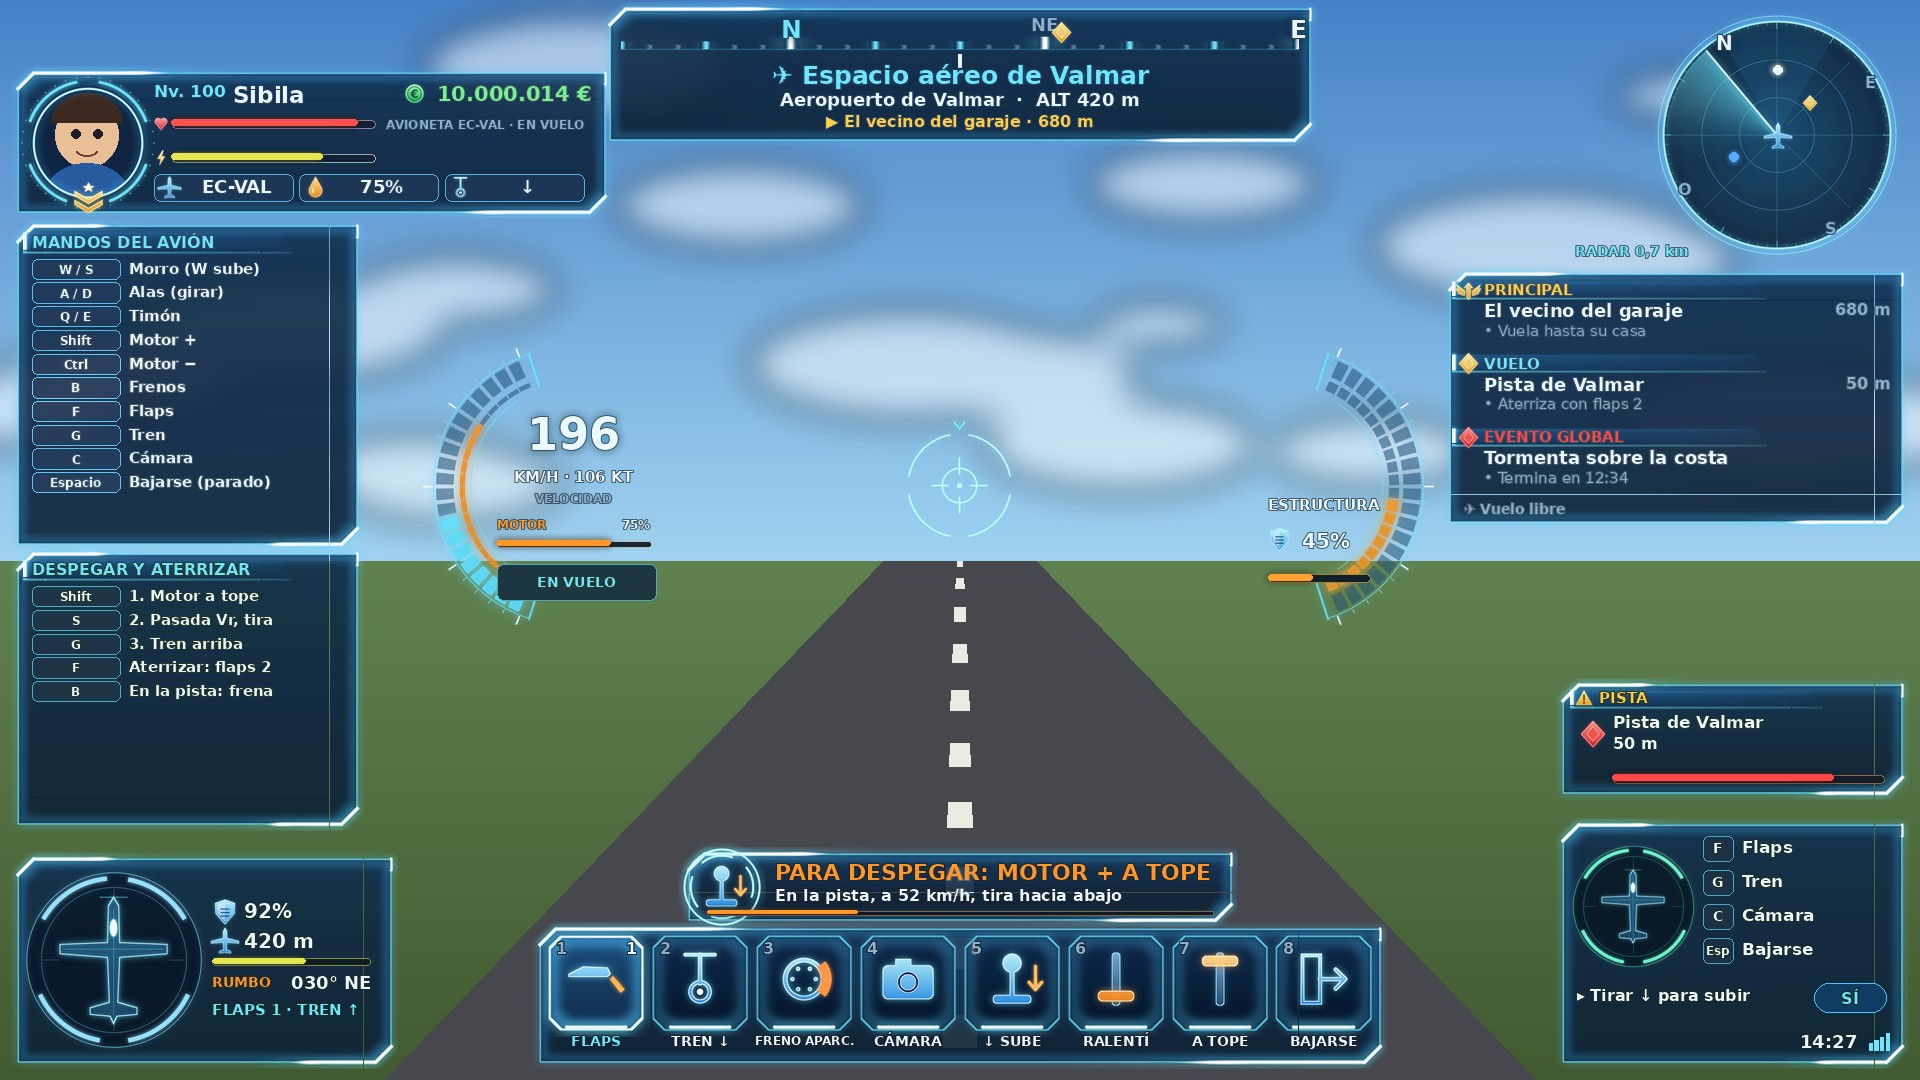
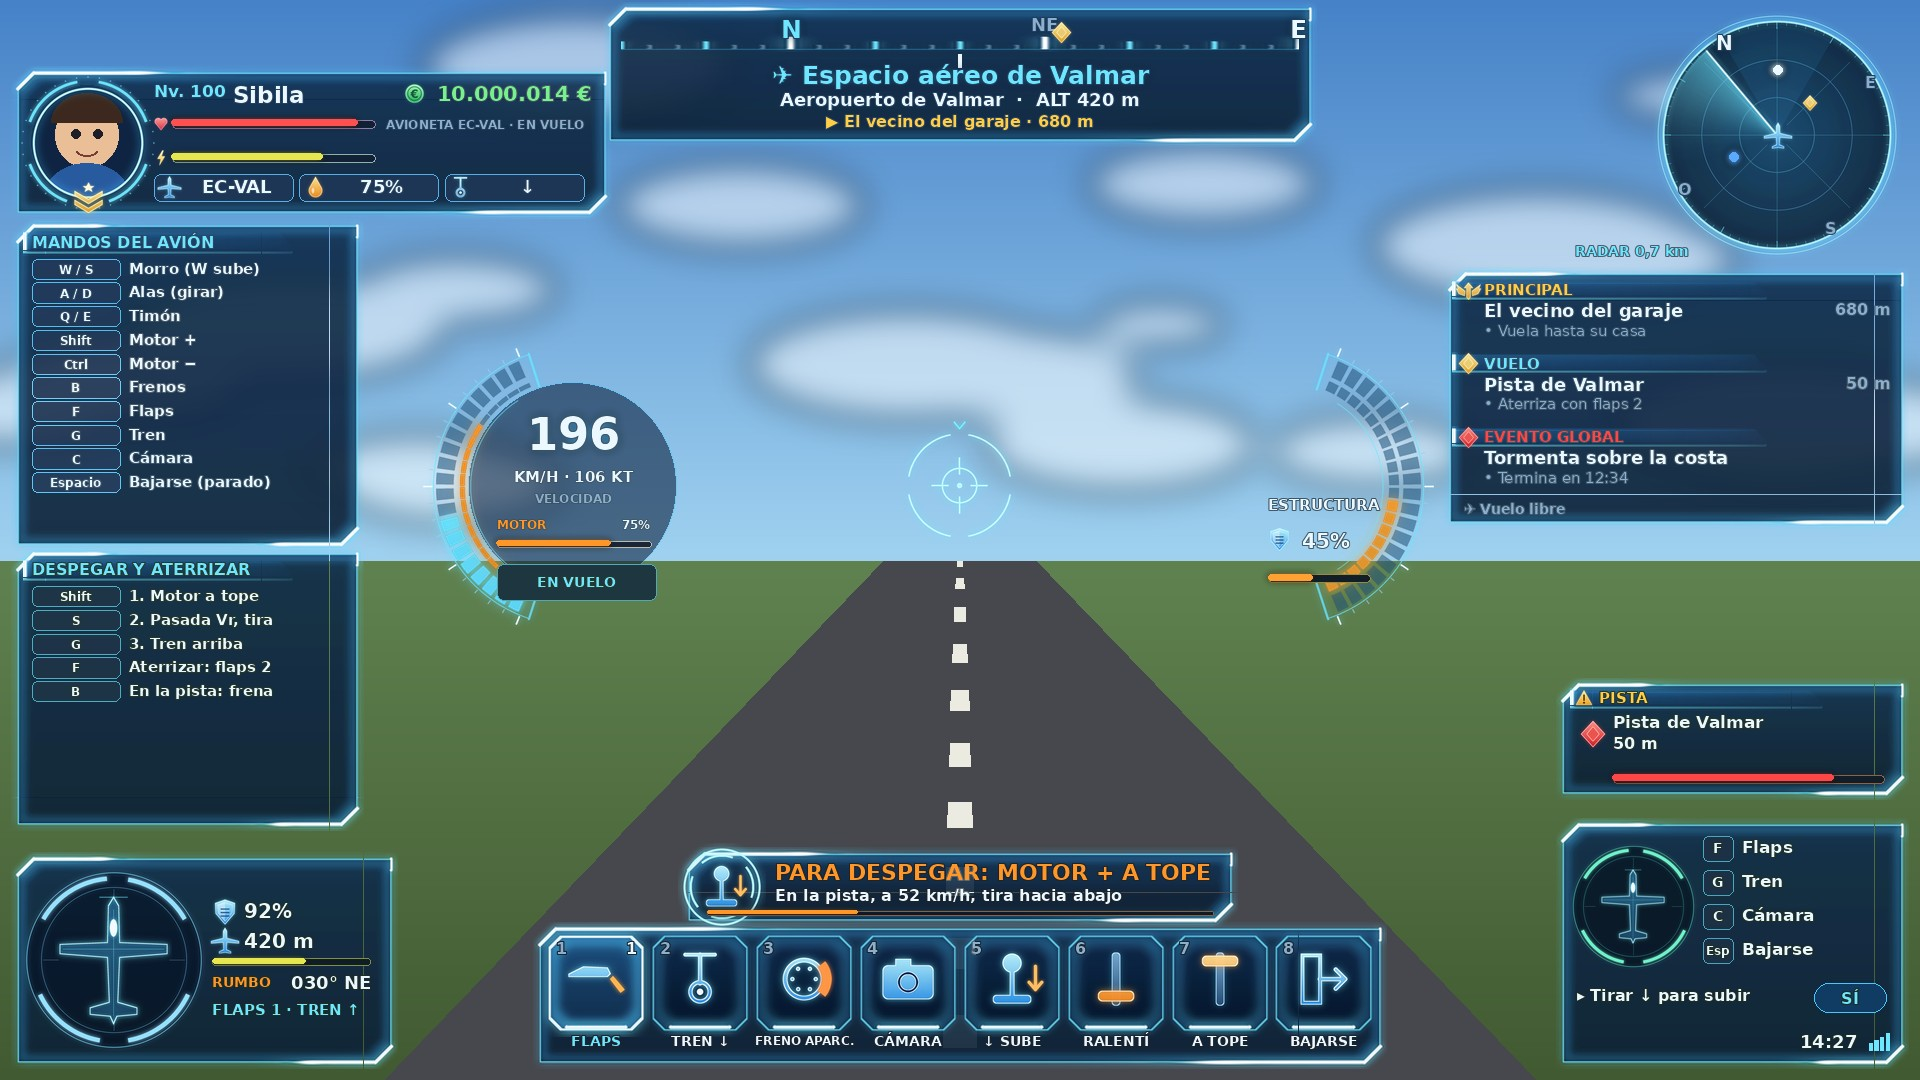
HUD del avión más cerca de su referencia: botones redondos dibujados, aro de la palanca, esfera de velocidad y maqueta v2
CAÑÓN, FRENOS, MOTOR ± (y los botones de la nave) con icono dibujado y aro con brillo del color
del botón (TouchLayout: campo Art); aro con brillo en la palanca; esfera redonda detrás del
número de velocidad; arcos más grandes en el móvil. Maqueta con las zonas de verdad y la
invasión en marcha (hud-avion-v2-844x390.jpg) y comparación con referencia-hud-avion.png.
Pruebas: CAÑÓN sin pisar zonas en 932x430, 844x390 y 640x360.

Claude-Session: https://claude.ai/code/session_01NLHSc9vUgM3Lfn2jUL556r

Changed region(s): [[0.2188, 0.3361, 0.375, 0.5194]]

diff --git a/roblox/scripts/hud/hud_fidelidad.py b/roblox/scripts/hud/hud_fidelidad.py
@@ -256,7 +256,10 @@ SHIP_KEYS = [("W/S", "Motor / Avanzar"), ("A/D", "Lateral"), ("Espacio", "Subir"
 SHIP_MOVES = [("C", "Esquivar / Rodar"), ("X", "Salto cuántico"), ("7", "Hipervelocidad"), ("Z", "Camuflaje"), ("4", "Escudo"), ("8", "Modo dron"), ("V", "Bengalas"), ("T", "Modo de vuelo"), ("Y", "Asistencia"), ("B", "Salir de la nave")]
 PLANE_KEYS = [("W / S", "Morro (W sube)"), ("A / D", "Alas (girar)"), ("Q / E", "Timón"), ("Shift", "Motor +"), ("Ctrl", "Motor −"), ("B", "Frenos"), ("F", "Flaps"), ("G", "Tren"), ("C", "Cámara"), ("Espacio", "Bajarse (parado)")]
 PLANE_MOVES = [("Shift", "1. Motor a tope"), ("S", "2. Pasada Vr, tira"), ("G", "3. Tren arriba"), ("F", "Aterrizar: flaps 2"), ("B", "En la pista: frena")]
+BUTTON_ART = {"MotorMas": ("motor_max", (60, 150, 255)), "MotorMenos": ("motor_0", (90, 110, 150)), "Frenos": ("frenos", (90, 120, 170)), "CanonAvion": ("misil", (200, 60, 60)),
+              "Fuego": ("armas", (200, 60, 50)), "Misil": ("misil", (200, 120, 30)), "Turbo": ("hiper", (220, 120, 30)), "FrenoNave": ("frenos", (90, 90, 110)), "EsquivaNave": ("camuflaje", (40, 150, 170)), "ObjetivoNave": ("objetivo", (150, 50, 60)), "BengalasNave": ("chispas", (170, 110, 40))}
 TOUCH_BUTTONS = {
+    "CanonAvion": "CAÑÓN",
     "Fuego": "DISPARO", "Misil": "MISIL", "Turbo": "IMPULSO", "FrenoNave": "FRENO", "EsquivaNave": "ESQUIVA", "SalirNave": "Salir",
     "ValmarNave": "VALMAR", "AccionNave": "ATRACAR", "BengalasNave": "BENGALAS", "ObjetivoNave": "OBJETIVO",
     "MotorMas": "MOTOR +", "MotorMenos": "MOTOR −", "Frenos": "FRENOS",
@@ -392,6 +395,13 @@ def zone_missions(c, r, plane, touch):
 
 def zone_speed(c, r, plane, touch):
     X, Y, W, H = r
+    # esfera redonda detrás del número (centrada donde el arco)
+    rr = H * 0.4
+    cx, cy = X + H * 0.616, Y + H / 2
+    g = Image.new("RGBA", c.layer.size, (0, 0, 0, 0))
+    gd = ImageDraw.Draw(g)
+    gd.ellipse([c.p(cx - rr), c.p(cy - rr), c.p(cx + rr), c.p(cy + rr)], fill=(10, 30, 60, 150), outline=EDGE + (120,), width=max(1, int(c.p(1.5))))
+    c.layer.alpha_composite(g)
     hh = H * 1.08
     aw = hh / 2
     ay = Y + H / 2 - hh / 2
@@ -559,20 +569,52 @@ def zone_help(c, r):
 def touch_controls(c, case):
     for name, (x, y, w, h) in case["Buttons"].items():
         cx, cy, rr = x + w / 2, y + h / 2, min(w, h) / 2
-        g = Image.new("RGBA", c.layer.size, (0, 0, 0, 0))
-        ImageDraw.Draw(g).ellipse([c.p(cx - rr), c.p(cy - rr), c.p(cx + rr), c.p(cy + rr)], outline=EDGE + (220,), width=max(2, int(c.p(5))))
-        c.layer.alpha_composite(g.filter(ImageFilter.GaussianBlur(c.p(4))))
-        c.d.ellipse([c.p(cx - rr), c.p(cy - rr), c.p(cx + rr), c.p(cy + rr)], fill=(8, 22, 44, 190), outline=CYAN + (255,), width=max(1, int(c.p(3))))
-        c.fit(cx, cy, TOUCH_BUTTONS.get(name, name), 22, w * 0.85, WHITE, "mm")
+        art, tint_c = BUTTON_ART.get(name, (None, (40, 80, 140)))
+        c.d.ellipse([c.p(cx - rr), c.p(cy - rr), c.p(cx + rr), c.p(cy + rr)], fill=(8, 22, 44, 200))
+        c.d.ellipse([c.p(cx - rr * 0.84), c.p(cy - rr * 0.84), c.p(cx + rr * 0.84), c.p(cy + rr * 0.84)], fill=tint_c + (110,))
+        ring_c = tuple(int(v + (255 - v) * 0.35) for v in tint_c)
+        c.paste(tint(sprite("aro_widget"), ring_c), cx - rr * 1.16, cy - rr * 1.16, rr * 2.32, rr * 2.32)
+        if art:
+            c.icon(art, cx - rr * 0.62, cy - rr * 0.2 - rr * 0.62, rr * 1.24)
+        c.fit(cx, cy + rr * 0.32 + 0.1 * rr, TOUCH_BUTTONS.get(name, name), 22, w * 0.85, WHITE, "ma")
     st = case.get("Stick")
     if st:
         x, y, w, h = st
         cx, cy, rr = x + w / 2, y + h / 2, min(w, h) / 2
         c.d.ellipse([c.p(cx - rr), c.p(cy - rr), c.p(cx + rr), c.p(cy + rr)], fill=(8, 22, 44, 120), outline=CYAN + (200,), width=max(1, int(c.p(4))))
+        c.paste(tint(sprite("aro_widget"), (130, 220, 255)), cx - rr * 1.14, cy - rr * 1.14, rr * 2.28, rr * 2.28)
         c.d.ellipse([c.p(cx - rr * 0.4), c.p(cy - rr * 0.4), c.p(cx + rr * 0.4), c.p(cy + rr * 0.4)], fill=(120, 190, 240, 220))
 
 
-def render(case, out_path):
+def invasion_banner(img, case):
+    """El panel EVENTO GLOBAL pilotando (UI/InvasionHud + TopStack: justo bajo la brújula y los avisos)"""
+    k = case["Scale"]
+    touch = case["Touch"]
+    S = {"W": 560, "Row": 30, "Pad": 6, "Bar": 12} if touch else {"W": 500, "Row": 24, "Pad": 6, "Bar": 8}
+    top = 1e9
+    bottom = 0
+    for name in ("B", "J"):
+        z = case["Zones"].get(name)
+        if z:
+            bottom = max(bottom, z[1] + z[3])
+    w, h = S["W"], S["Pad"] * 2 + S["Row"] * 2 + S["Bar"] + 6
+    y_px = bottom * k + 8
+    x_px = img.width / 2 - w * k / 2
+    c = Canvas(img, k)
+    X, Y = x_px / k, y_px / k
+    c.nine("marco_panel", X, Y, w, h)
+    e = S["Row"] * 2 - 4
+    c.paste(sprite("emblema"), X + 8, Y + S["Pad"] + 2, e, e)
+    c.icon("rombo_rojo", X + 8 + e * 0.2, Y + S["Pad"] + 2 + e * 0.2, e * 0.6)
+    x = X + 14 + e
+    c.fit(x, Y + S["Pad"] + 2, "EVENTO GLOBAL · INVASIÓN", 24 if touch else 17, w * 0.62 - (x - X), (120, 255, 230))
+    c.fit(X + w - 14, Y + S["Pad"] + 2, "Oleada 1 de 4  ⏱ 3:20", 23 if touch else 16, w * 0.38 - 4, WHITE, "ra")
+    c.fit(x, Y + S["Pad"] + S["Row"] + 2, "Ferrocéfalos, Lumínidos y Vórtidos · San Roque: EN DISPUTA", 23 if touch else 15, w - (x - X) - 14, WHITE, bold=False)
+    c.bar(x, Y + S["Pad"] + S["Row"] * 2 + 2, w - (x - X) - 14, S["Bar"], 0.62, (255, 190, 60))
+    c.finish()
+
+
+def render(case, out_path, banner=False):
     w, h = case["Size"]
     plane = case["Vehicle"] == "Plane"
     touch = case["Touch"]
@@ -598,7 +640,9 @@ def render(case, out_path):
     zone_slots(c, Z["H"], case["Slot"], case["Gap"], plane, touch)
     zone_prompt(c, Z["Prompt"], plane)
     c.finish()
-    # la mira (capa encima, en píxeles de la pantalla)
+    if banner:
+        invasion_banner(img, case)
+    # la mira (capa encima, en píxeles de la pantalla): la nave y el avión con el CAÑÓN armado
     m = sprite("mira")
     s = int(52 * (1.8 if touch else 2.6))
     img.alpha_composite(m.resize((s, s), Image.LANCZOS), (int(w / 2 - s / 2), int(h * 0.45 - s / 2)))
@@ -630,6 +674,26 @@ def compare(ref_path, ours, out_path):
     out.save(out_path, quality=88)
 
 
+def compare_plane(ref_path, ours, out_path):
+    ref = Image.open(ref_path).convert("RGB")
+    # (el pie de la referencia lleva un nombre que no es el nuestro: se tapa)
+    sx, sy = ref.width / 1846, ref.height / 852
+    bx = (0, int(770 * sy), int(480 * sx), int(840 * sy))
+    ref.paste(ref.crop(bx).filter(ImageFilter.GaussianBlur(16)), bx[:2])
+    W = 1300
+    a = ref.resize((W, int(ref.height * W / ref.width)), Image.LANCZOS)
+    b = ours.convert("RGB").resize((W, int(ours.height * W / ours.width)), Image.LANCZOS)
+    H = a.height + b.height + 120
+    out = Image.new("RGB", (W + 20, H), (10, 14, 24))
+    d = ImageDraw.Draw(out)
+    f = ImageFont.truetype(FONT, 28)
+    d.text((10 + W / 2, 28), "Referencia del avión (referencia-hud-avion.png)", font=f, fill=(235, 248, 255), anchor="mm")
+    out.paste(a, (10, 52))
+    d.text((10 + W / 2, 52 + a.height + 32), "Nuestro HUD del avión (zonas de verdad, 844x390, invasión)", font=f, fill=(110, 230, 255), anchor="mm")
+    out.paste(b, (10, 52 + a.height + 60))
+    out.save(out_path, quality=88)
+
+
 def main():
     data = json.load(open(sys.argv[1], encoding="utf-8"))
     out_dir = sys.argv[2]
@@ -644,6 +708,11 @@ def main():
         if case["Vehicle"] == "Ship" and size == "1920x1080":
             ship_pc = img
         print(name, "choques:", case["Clashes"] or "ninguno")
+    for case in data:
+        if case["Vehicle"] == "Plane" and tuple(case["Size"]) == (844, 390):
+            v2 = render(case, os.path.join(out_dir, "hud-avion-v2-844x390.jpg"), banner=True)
+            compare_plane(os.path.join(ROOT, "docs", "espacio-aaa", "referencia-hud-avion.png"), v2, os.path.join(out_dir, "hud-avion-v2-comparacion.jpg"))
+            print("hud-avion-v2-844x390.jpg, hud-avion-v2-comparacion.jpg")
     if ship_pc is not None:
         compare(os.path.join(ROOT, "docs", "espacio-aaa", "referencia-hud.png"), ship_pc, os.path.join(out_dir, "hud-fidelidad-comparacion.jpg"))
         print("hud-fidelidad-comparacion.jpg")

diff --git a/roblox/docs/espacio-aaa/diseno.md b/roblox/docs/espacio-aaa/diseno.md
@@ -419,3 +419,21 @@ brillo, así que ahora el HUD (nave y avión: `UI/AirCombatHud`) usa **sprites h
 - Pruebas: `scripts/test-espacio-aaa.luau` («HUD fiel a la referencia»): sprites y manifiesto, ids,
   cuentas de los atlas, colores, relleno animado, respaldo sin ids, sprites con ids, perfil y radar sin
   montarse, tamaños táctiles y la subida segura.
+
+### v117: el HUD salía sin dibujos (causa y arreglo)
+
+- **Causa**: la clave de Open Cloud no puede leer assets, así que `upload-hud.sh` guardó ids de
+  **Decal**. Con un id de Decal una `ImageLabel` no enseña nada; el servidor los convierte
+  (`shared/Images.resolve` → atributos de `ReplicatedStorage.ImageIds`), pero el HUD del avión se crea
+  al arrancar el cliente, antes: marcos, radar, arcos y aros se quedaban con el id del Decal (y ya habían
+  apagado el fondo de siempre: paneles «desnudos»). Solo las ranuras salían, porque se repintan.
+- **Arreglo**: `UI/HudArt` recuerda qué dibujo es cada imagen (tabla fuerte: una tabla débil de
+  Instances las pierde), escucha `ImageIds` y repinta (`HudArt.refresh`); el servidor convierte el HUD
+  el primero; `ContentProvider:PreloadAsync` avisa una vez si un dibujo no carga.
+- **Mirilla**: el avión lleva el marcador de trayectoria donde apunta el morro; con el CAÑÓN de la
+  invasión armado, la mira y la fijación del alienígena más centrado (`AirCombatHud.setReticle`).
+- El panel EVENTO GLOBAL pilotando va justo bajo la brújula, más pequeño, con emblema y la letra encoge
+  (no tapa el centro). Los letreros de las zonas de la invasión se apagan mientras pilotas
+  (`FlightFocus.tagWorld`). Botones redondos dibujados (CAÑÓN, FRENOS, MOTOR ±, los de la nave), aro con
+  brillo en la palanca y esfera redonda en la velocidad.
+- Maqueta: `hud-avion-v2-844x390.jpg` y `hud-avion-v2-comparacion.jpg` (con `referencia-hud-avion.png`).
